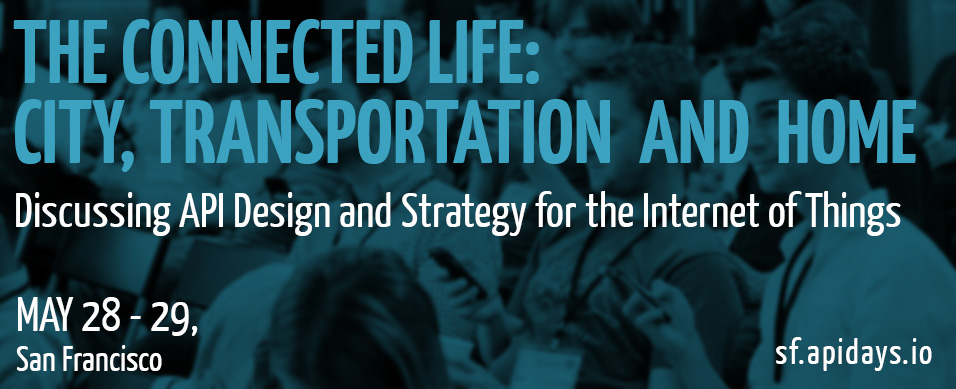
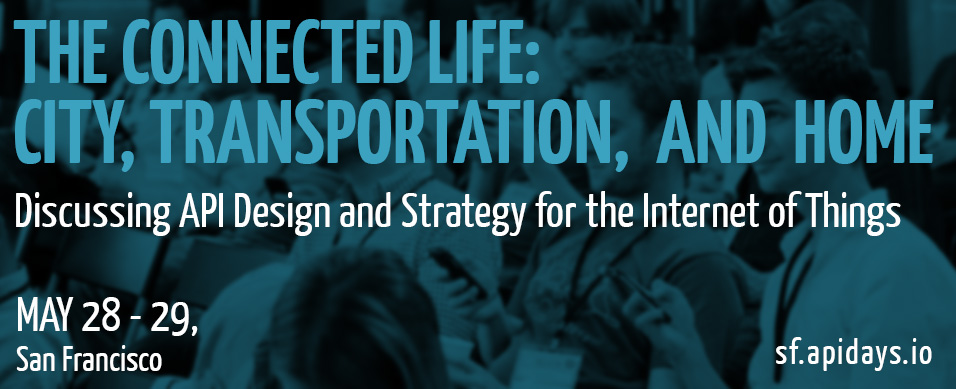
update comma

Changed region(s): [[0.637, 0.2468, 1.0, 0.4319]]

diff --git a/index.html b/index.html
@@ -45,7 +45,7 @@
 						<img src="img/logo-apydays-home.png" alt="APIdays">
 					</div>
 					<div class="question">
-						<h1>The Connected Life: City, Transportation &amp; Home</h1>
+						<h1>The Connected Life: City, Transportation, &amp; Home</h1>
 						<h2>API Design &amp; Strategy for the Internet of Things revolution</h2>
 					</div>
 					<div class="date">
